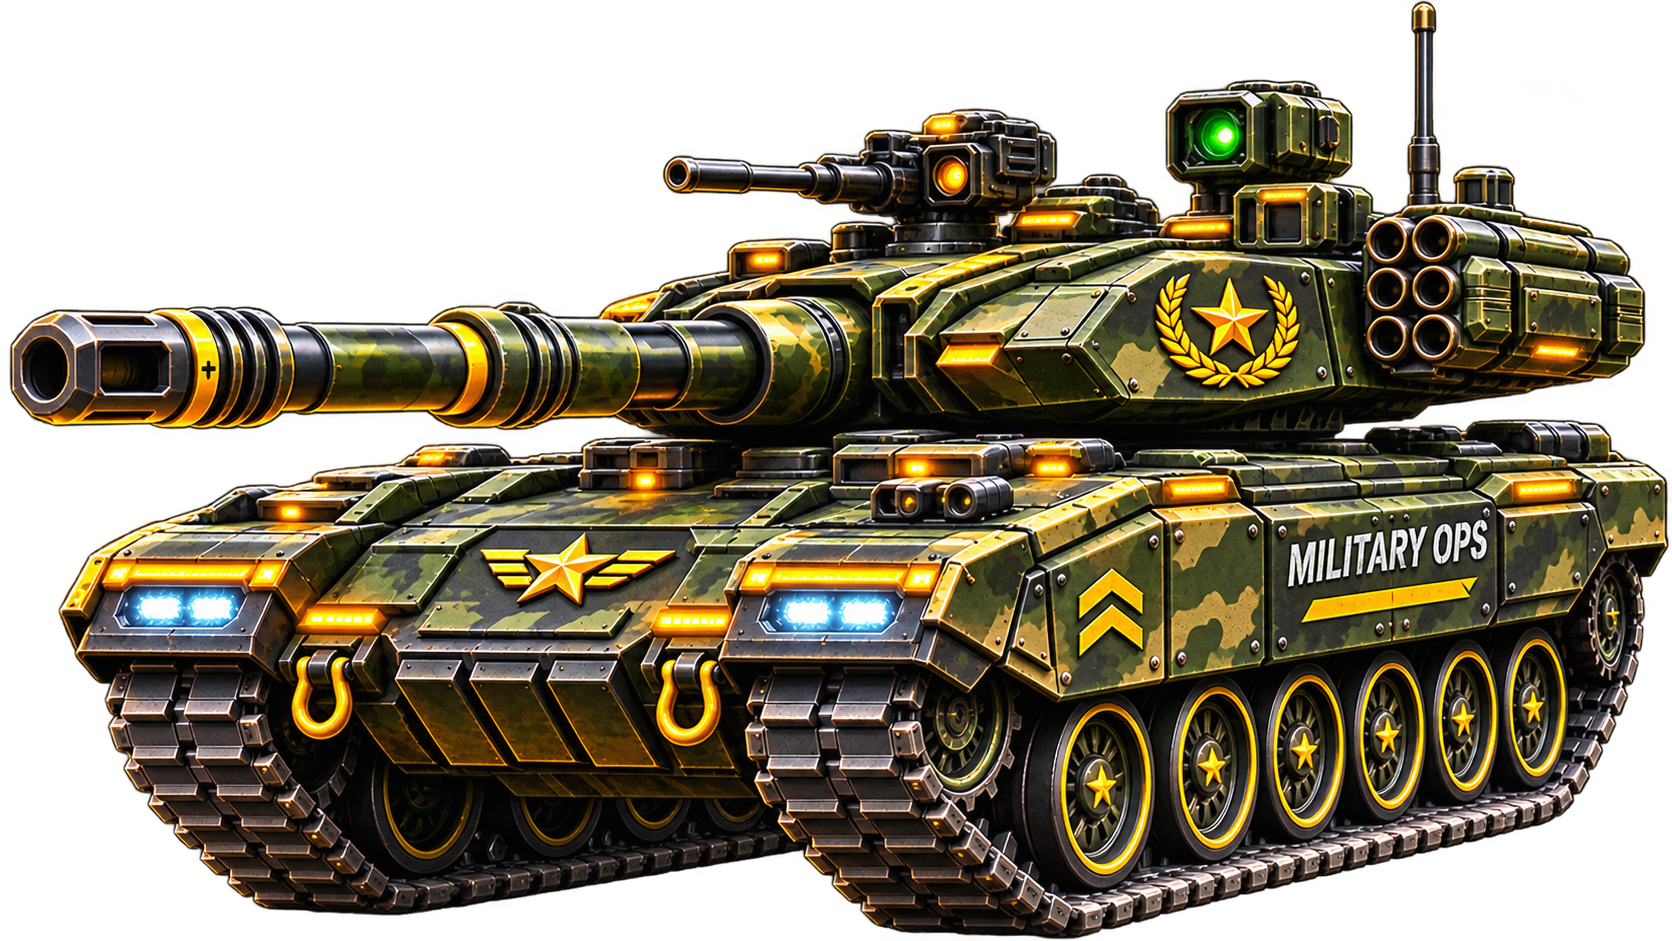
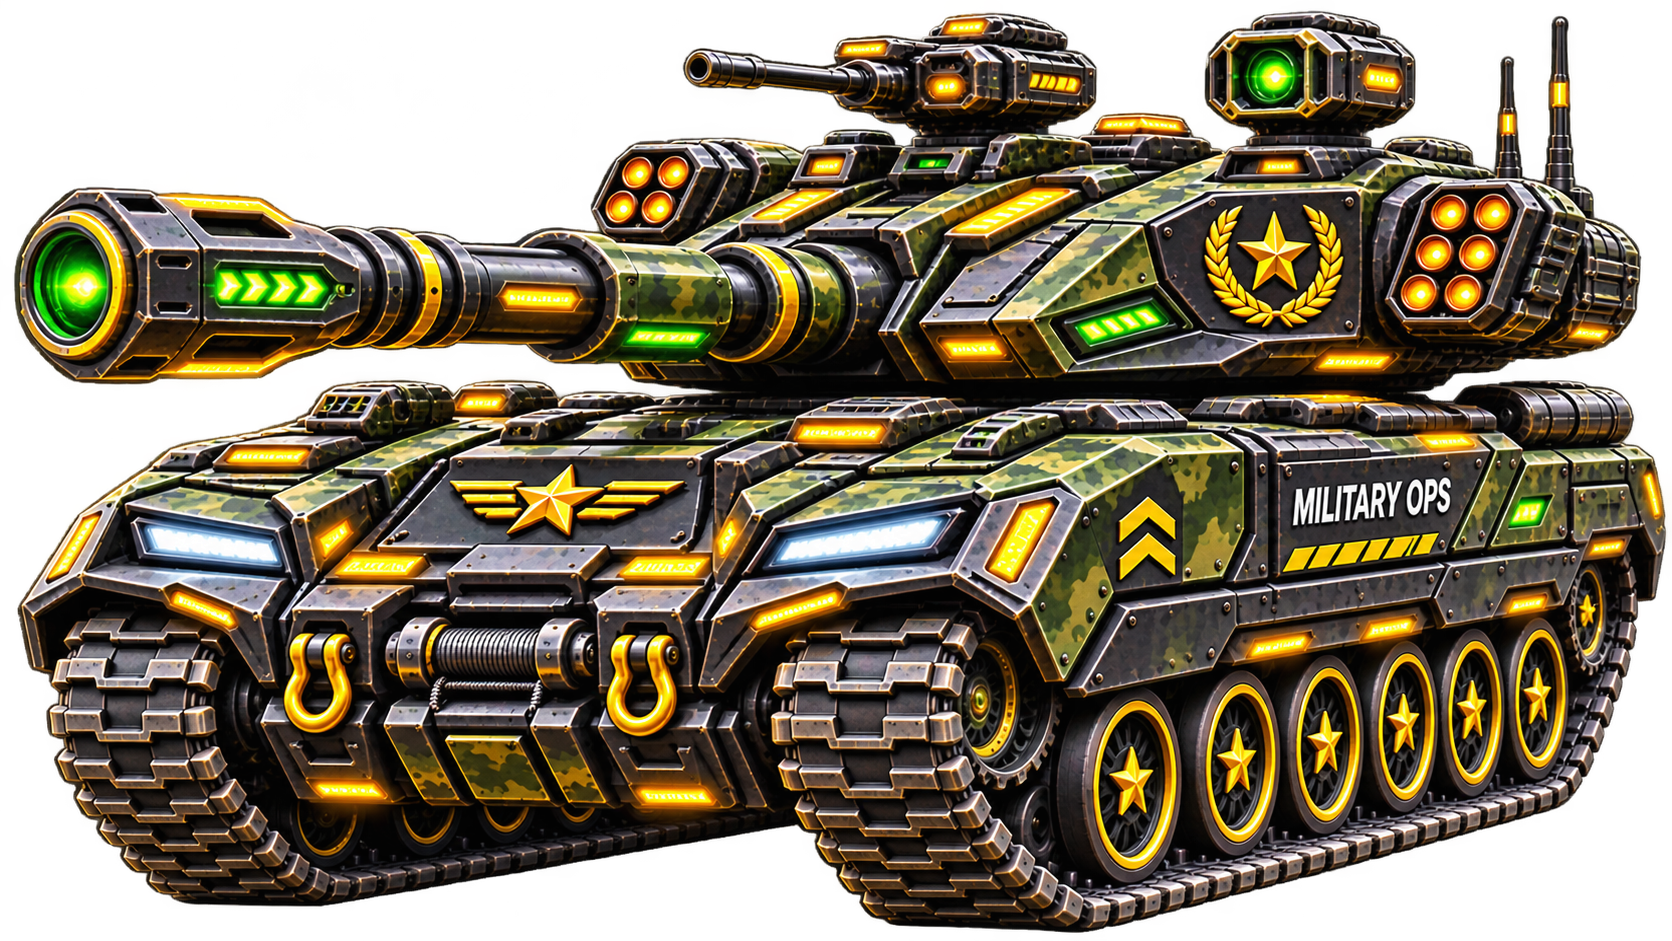
up

diff --git a/public/game-wheel8.html b/public/game-wheel8.html
@@ -654,10 +654,10 @@ height: 50px;
 
 .result-img{
 position: absolute;
-top:102px;
+top:107px;
 left: 168px;
 width:145px;
-height:145px;
+height:110px;
 margin:10px auto;
 display:block;
 
